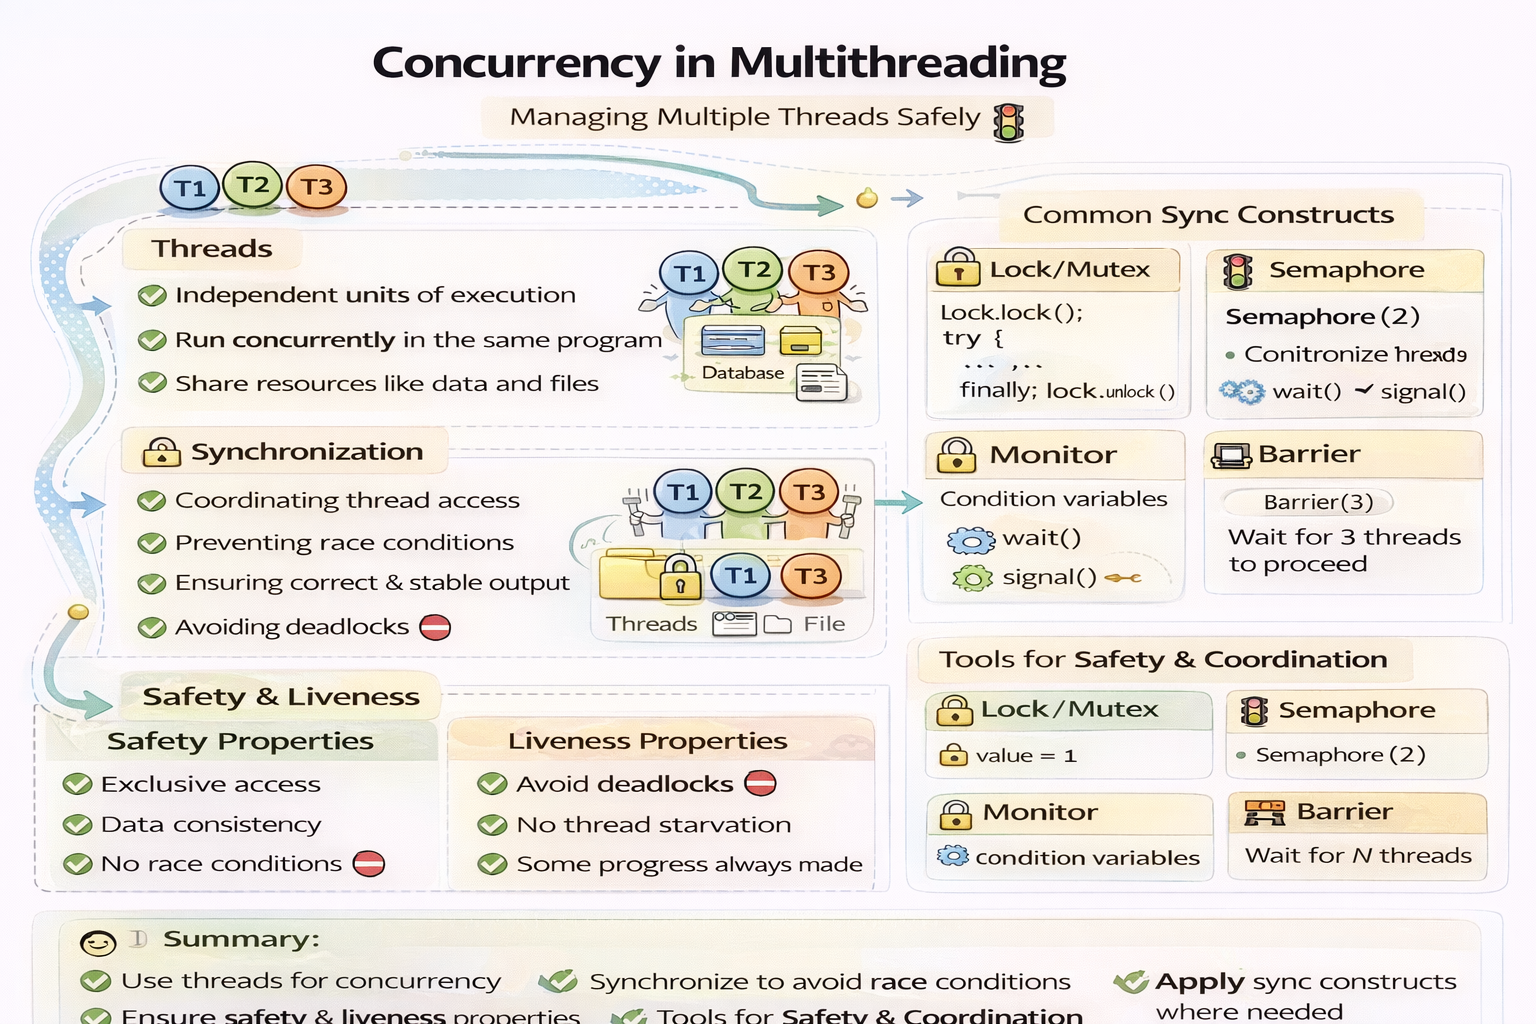
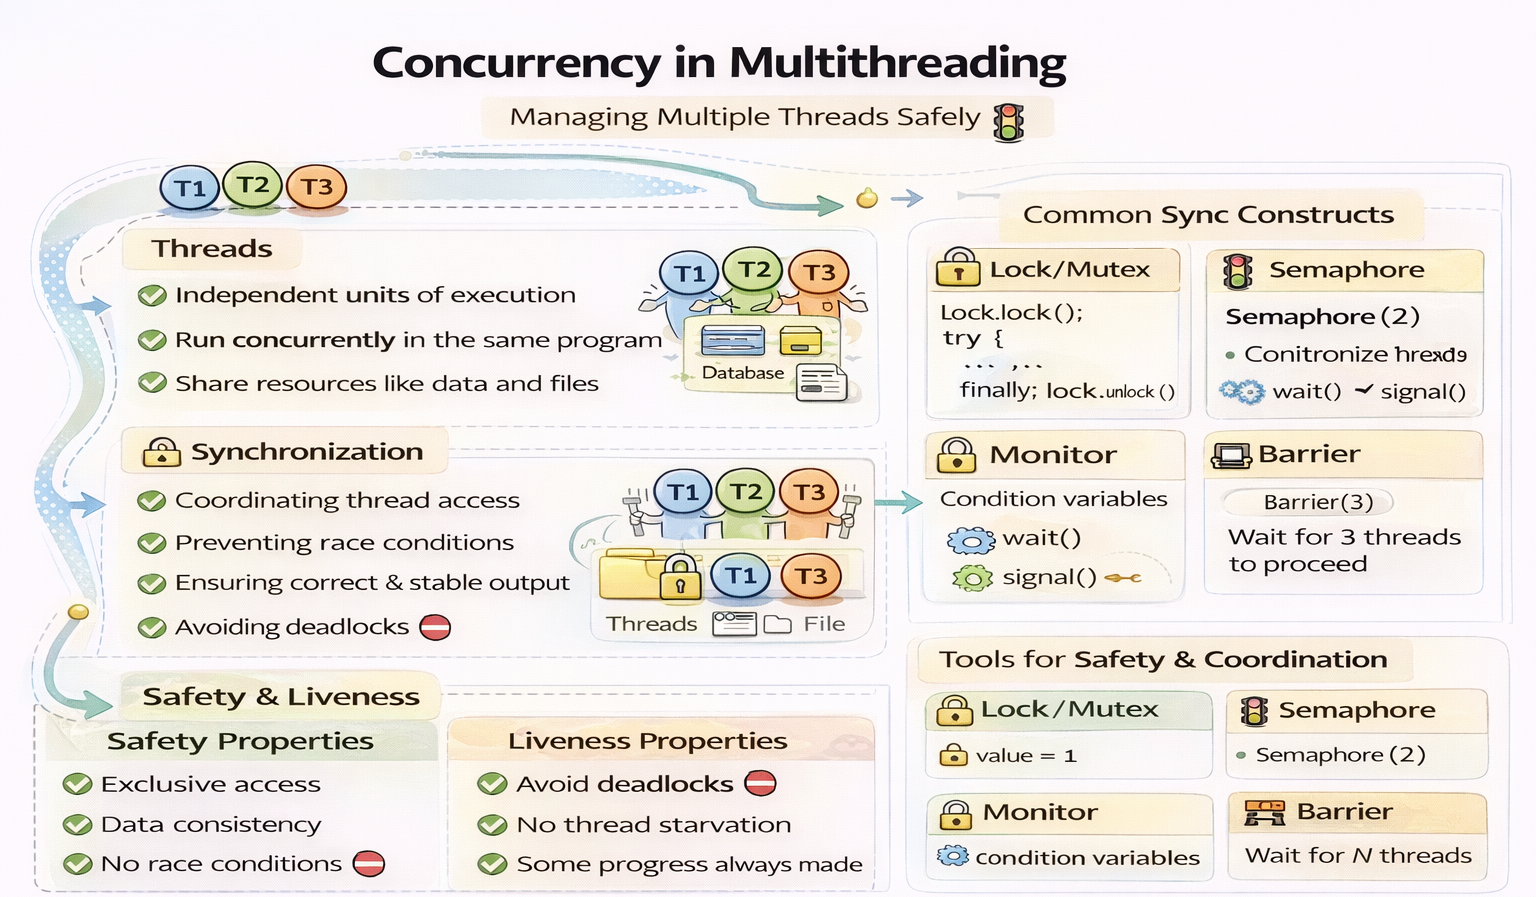
fix readme image

diff --git a/Coursework1/README.md b/Coursework1/README.md
@@ -1,5 +1,9 @@
 # Coursework 1
 
+Concurrent and Distributed Systems
+
+UB Number: 25029204
+
 ## Question 1 
 
 > Explain the concept of interference in concurrent systems and provide an example of how it could occur within the context of this scenario.
